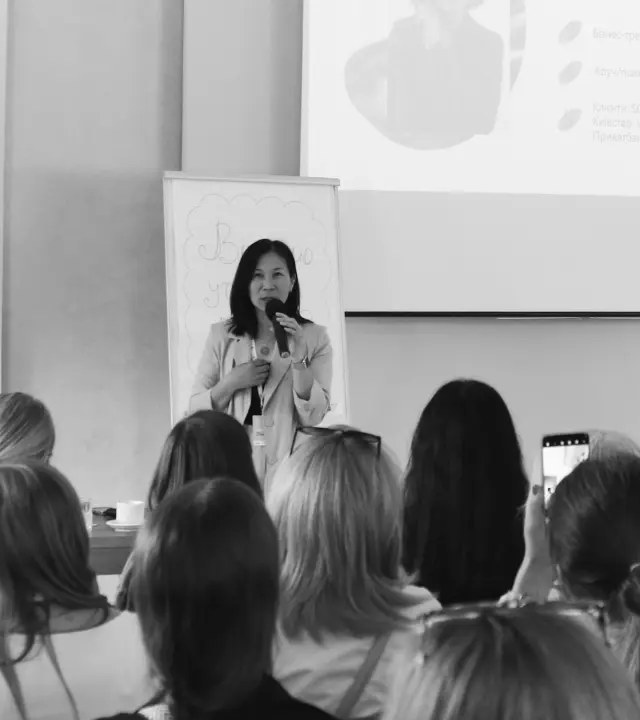
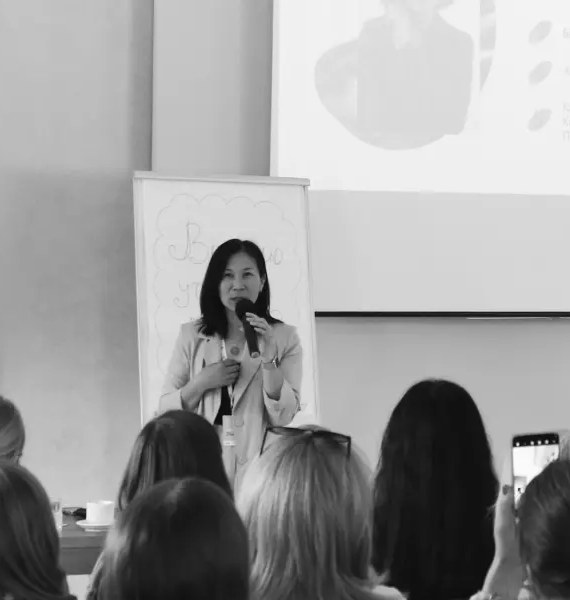
Презентація: аудит, раунд 3 — фото без повторів, пес NovaPay цілком, векторний QR, типографічні заміни (нерозривні дефіси, прийменники), кроки-розділи легші, репліки в одному стилі

diff --git a/components/deck/DeckPages.tsx b/components/deck/DeckPages.tsx
@@ -65,7 +65,7 @@ export const DECK_CSS = `
   #deck-a4 .t-gallery .lead{ font-size:calc(17pt * var(--k,1)); font-style:italic; color:var(--acc); }
 
   /* тіло сторінки */
-  #deck-a4 .pb{ display:flex; flex-direction:column; flex:1; min-height:0; padding-bottom:5mm; }
+  #deck-a4 .pb{ display:flex; flex-direction:column; flex:1; min-height:0; padding-bottom:7mm; }
   #deck-a4 .sheet[data-sparse] .pb{ justify-content:flex-start; padding-bottom:0; }
   #deck-a4 .t-cover .pb, #deck-a4 .t-section .pb, #deck-a4 .t-closing .pb{ display:contents; }
 
@@ -96,21 +96,23 @@ export const DECK_CSS = `
   #deck-a4 .cols[data-n="3"]{ grid-template-columns:repeat(3,1fr); }
   #deck-a4 .cols[data-n="4"]{ grid-template-columns:repeat(4,1fr); column-gap:5mm; }
   #deck-a4 .cols[data-n="4"] .col{ padding:4mm 4.5mm 4.5mm; }
+  #deck-a4 .cols[data-n="4"] .col h3{ min-height:3.9em; }
   #deck-a4 .col h3{ font-family:var(--font-spectral),serif; font-style:italic; font-weight:500; font-size:calc(13.5pt * var(--k,1)); color:var(--acc); line-height:1.25; padding-bottom:2mm; border-bottom:1px solid var(--line); }
 
   /* steps */
   #deck-a4 .steps{ margin-top:5mm; display:flex; flex-direction:column; max-width:240mm; }
   #deck-a4 .step{ display:grid; grid-template-columns:60mm 1fr; gap:6mm; padding:calc(3.2mm * var(--k,1)) 0; border-top:1px solid var(--line); align-items:baseline; }
   #deck-a4 .step:first-child{ border-top:0; }
-  #deck-a4 .step .h{ font-family:var(--font-spectral),serif; font-style:italic; font-size:calc(13.5pt * var(--k,1)); color:var(--acc); line-height:1.3; }
-  #deck-a4 .step .t{ font-size:calc(12.2pt * var(--k,1)); line-height:1.5; }
+  #deck-a4 .step .h{ font-family:var(--font-spectral),serif; font-style:italic; font-size:calc(13.5pt * min(var(--k,1), 1.18)); color:var(--acc); line-height:1.3; }
+  #deck-a4 .step .t{ font-size:calc(12.2pt * min(var(--k,1), 1.18)); line-height:1.5; }
 
   /* table */
   #deck-a4 table{ width:100%; border-collapse:collapse; margin-top:6mm; font-size:calc(10.5pt * var(--k,1)); line-height:1.42; }
-  #deck-a4 th{ text-align:left; font-family:var(--font-jetbrains),monospace; font-size:7.8pt; letter-spacing:.12em; text-transform:uppercase; color:var(--faint); padding:0 3mm 2.4mm 0; border-bottom:1px solid var(--ink); font-weight:500; }
+  #deck-a4 th{ text-align:left; font-family:var(--font-jetbrains),monospace; font-size:7.8pt; letter-spacing:.12em; text-transform:uppercase; color:var(--faint); padding:0 6mm 2.4mm 0; border-bottom:1px solid var(--ink); font-weight:500; }
   #deck-a4 td{ vertical-align:top; padding:calc(2.8mm * var(--k,1)) 3mm calc(2.8mm * var(--k,1)) 0; border-bottom:1px solid var(--line); }
   #deck-a4 td:first-child{ color:var(--acc); font-family:var(--font-spectral),serif; font-style:italic; font-size:calc(11pt * var(--k,1)); width:17%; }
   #deck-a4 table[data-num] td:first-child{ width:6%; white-space:nowrap; }
+  #deck-a4 table[data-cols="4"]:not(.ws) td:nth-child(2){ width:34%; } #deck-a4 table[data-cols="4"]:not(.ws) td:nth-child(3){ width:22%; }
   #deck-a4 table[data-num] td:nth-child(3){ width:24%; }
   #deck-a4 td[contenteditable]:empty{ min-height:6mm; display:block; }
 
@@ -192,6 +194,8 @@ export const DECK_CSS = `
   #deck-a4 .t-section.has-img .rh, #deck-a4 .t-section.has-img .foot{ margin-right:112mm; }
   #deck-a4 .t-section.has-img .secwrap{ padding-right:112mm; position:relative; z-index:1; }
   #deck-a4 .t-section.has-img .num{ font-size:120pt; }
+  #deck-a4 .t-section.is-step .num{ font-size:88pt; }
+  #deck-a4 .t-section.is-step h1{ font-size:26pt; }
   #deck-a4 .t-section.has-img h1{ font-size:28pt; }
   #deck-a4 .t-section.has-img .secwrap{ column-gap:10mm; }
   #deck-a4 .t-section.fit-top .secimg{ right:0; left:0; bottom:auto; width:auto; height:94mm; }
@@ -220,7 +224,7 @@ export const DECK_CSS = `
   #deck-a4 .bubbles{ display:flex; flex-direction:column; gap:calc(3mm * var(--k,1)); margin-top:6mm; max-width:215mm; }
   #deck-a4 .bubble{ position:relative; align-self:flex-start; background:var(--band); border-radius:12px 12px 12px 3px; padding:3.2mm 6mm 3.2mm 9mm; font-family:var(--font-spectral),serif; font-style:italic; font-size:calc(12.5pt * var(--k,1)); line-height:1.4; max-width:190mm; }
   #deck-a4 .bubble::before{ content:"“"; position:absolute; left:3mm; top:1.2mm; font-family:var(--font-playfair),serif; font-size:calc(20pt * var(--k,1)); line-height:1; color:var(--amber); font-style:normal; }
-  #deck-a4 .bubble:nth-child(even){ margin-left:8mm; background:#fff; border:1px solid var(--line); }
+  #deck-a4 .bubble:nth-child(even){ margin-left:0; }
 
   /* ── колонки як картки ── */
   #deck-a4 .col{ background:var(--band); border-radius:5px; padding:5mm 6mm 5.5mm; border-top:2.5pt solid var(--amber); }
@@ -248,7 +252,7 @@ export const DECK_CSS = `
   #deck-a4 .gal[data-chip="yellow"] img{ border-top:5pt solid #F2C230; }
   #deck-a4 .gal[data-chip="blue"] img{ border-top:5pt solid #2F62C7; }
   #deck-a4 .gal img{ height:108mm; box-shadow:0 10px 26px rgba(60,40,15,.14); object-position:center 25%; }
-  #deck-a4 .gal figure:has(figcaption:not(:empty)) img{ object-fit:contain; background:var(--band); height:100mm; }
+  #deck-a4 .gal figure:has(figcaption:not(:empty)) img{ object-fit:cover; object-position:center; height:100mm; }
 
   /* ── таблиці: зебра ── */
   #deck-a4 tbody tr:nth-child(even) td{ background:rgba(244,236,220,.55); }
@@ -265,7 +269,7 @@ export const DECK_CSS = `
   #deck-a4 .notes .lines{ flex:1; min-height:0; background:linear-gradient(to top,var(--line) .25mm,transparent .25mm) left bottom / 100% 8.6mm repeat-y; margin-top:2mm; }
   #deck-a4 table.ws td{ height:calc(var(--rowh,18mm) * var(--k,1)); vertical-align:top; padding-top:3mm; }
   #deck-a4 table.ws td:empty{ background-image:linear-gradient(to top,var(--line) .25mm,transparent .25mm); background-size:100% 8.6mm; background-position:left bottom; background-repeat:repeat-y; background-origin:content-box; background-clip:content-box; }
-  #deck-a4 table.ws.c3 th:first-child{ width:34%; } #deck-a4 table.ws.c3 th:nth-child(2){ width:24%; } #deck-a4 table.ws.c3 th:last-child{ width:42%; }
+  #deck-a4 table.ws.c3 th:first-child{ width:40%; } #deck-a4 table.ws.c3 th:nth-child(2){ width:18%; } #deck-a4 table.ws.c3 th:last-child{ width:42%; }
   #deck-a4 table.ws.c3[data-num] th:first-child{ width:6%; } #deck-a4 table.ws.c3[data-num] th:nth-child(2){ width:52%; }
   #deck-a4 table.ws.c4 th:nth-child(2), #deck-a4 table.ws.c4 th:nth-child(3){ width:35%; } #deck-a4 table.ws.c4 th:last-child{ width:20%; }
   #deck-a4 table.ws td:first-child{ width:auto; }
@@ -282,7 +286,7 @@ export const DECK_CSS = `
   #deck-a4 .t-closing .wrap > img{ position:absolute; top:0; right:0; bottom:0; width:118mm; height:100%; object-fit:cover; object-position:center 15%; border:0; padding:0; background:none; }
   #deck-a4 .t-closing .rh, #deck-a4 .t-closing .foot{ margin-right:112mm; }
   #deck-a4 .t-closing h1{ font-size:40pt; }
-  #deck-a4 .t-closing .qr{ mix-blend-mode:multiply; width:38mm; height:38mm; margin-top:8mm; }
+  #deck-a4 .t-closing .qr{ width:34mm; height:34mm; margin-top:9mm; }
   #deck-a4 table.ws tbody tr:nth-child(even) td{ background-color:transparent; }
 
   #deck-a4 .fullimg{ flex:1; min-height:0; display:flex; align-items:center; margin-top:8mm; }
@@ -301,6 +305,14 @@ export const DECK_CSS = `
 `;
 
 type Patch = (patch: Record<string, unknown>) => void;
+
+/** Типографічні заміни лише для показу (у дані повертаються звичайні пробіли/дефіси): «5‑й крок», прийменники не висять. */
+function typo(v: string): string {
+  return v
+    .replace(/(\d)-(й|го|му|ша|ші|ім|ий|ої|ому)(?!\p{L})/gu, "$1\u2011$2")
+    .replace(/(\d\u2011й)\s+(крок)/gu, "$1\u00A0$2")
+    .replace(/(^|[\s(«])([\p{L}]{1,2})\s+(?=\S)/gu, "$1$2\u00A0");
+}
 
 /* ───────── editable primitives ───────── */
 
@@ -333,7 +345,7 @@ function E({
         if (v !== value) onChange(v);
       }}
     >
-      {value.replace(/(\d)-(й|го|му|ша|ші|ім|ий|ої|ому)(?!\p{L})/gu, "$1\u2011$2")}
+      {typo(value)}
     </T>
   );
 }
@@ -363,7 +375,7 @@ function EList({
       }}
     >
       {items.map((it, i) => (
-        <li key={i}>{it}</li>
+        <li key={i}>{typo(it)}</li>
       ))}
     </ul>
   );
@@ -432,11 +444,11 @@ function Sheet({ deck, i, cls, page, children, editable, onRunhead }: { deck: De
       const fits = () => !(el.scrollHeight > el.clientHeight + 2 || (pb ? pb.scrollHeight > pb.clientHeight + 2 : false));
       let v = d.k;
       const floor = page.type === "table" ? 0.7 : 0.62;
-      const apply = () => { el.style.setProperty("--k", String(v)); el.style.setProperty("--kh", String(Math.min(1.2, v))); };
+      const apply = () => { el.style.setProperty("--k", String(v)); el.style.setProperty("--kh", String(v >= 1.1 ? 1.1 : v < 0.95 ? 0.9 : 1)); };
       apply();
       for (let i = 0; i < 24 && !fits() && v > floor; i++) { v = Math.round((v - 0.04) * 100) / 100; apply(); }
       // поле «Нотатки» лишаємо тільки якщо на нього є хоча б 18 мм
-      if (notes && notes.getBoundingClientRect().height < 68) { notes.style.display = "none"; }
+      if (notes && notes.getBoundingClientRect().height < 98) { notes.style.display = "none"; }
       setK(v);
     };
     fit();
@@ -447,7 +459,7 @@ function Sheet({ deck, i, cls, page, children, editable, onRunhead }: { deck: De
     return () => window.clearTimeout(t);
   }, [d.k, page]);
   return (
-    <section ref={ref} className={`sheet ${cls ?? ""}${page.type === "section" && page.image ? " has-img" + (page.fit === "top" ? " fit-top" : "") : ""}`} data-page={i + 1} data-sparse={k >= 1.32 ? "1" : undefined} style={{ ["--k" as any]: k, ["--kh" as any]: Math.min(1.2, k) }}>
+    <section ref={ref} className={`sheet ${cls ?? ""}${page.type === "section" && page.image ? " has-img" + (page.fit === "top" ? " fit-top" : "") : ""}${page.type === "section" && /^\d+-й крок/i.test(page.title) ? " is-step" : ""}`} data-page={i + 1} data-sparse={k >= 1.32 ? "1" : undefined} style={{ ["--k" as any]: k, ["--kh" as any]: Math.min(1.2, k) }}>
       <div className="rh">
         <span className="wm">Pan<em>&amp;</em>Partners</span>
         <span className="fill" />
@@ -702,7 +714,7 @@ function PageBody({ p, set, editable, prev }: { p: DeckPage; set: Patch; editabl
         <>
           <Title p={p} set={set} editable={e} />
           <E tag="p" className="lead" value={p.lead} onChange={(v) => set({ lead: v })} editable={e} ph="лід" />
-          <table className={ws ? `ws c${p.head.length}` : undefined} data-hl={hl ?? undefined} data-num={numbered ? "1" : undefined} style={rowh ? ({ ["--rowh" as any]: rowh } as any) : undefined}>
+          <table className={ws ? `ws c${p.head.length}` : undefined} data-hl={hl ?? undefined} data-num={numbered ? "1" : undefined} data-cols={String(p.head.length)} style={rowh ? ({ ["--rowh" as any]: rowh } as any) : undefined}>
             <thead>
               <tr>
                 {p.head.map((h, k) => (

diff --git a/lib/decks/novapay.ts b/lib/decks/novapay.ts
@@ -15,7 +15,7 @@ export const NOVAPAY_DECK: Deck = {
     // 1
     { id: "s01", type: "cover", eyebrow: "Sell NovaPay", title: "Продажі в B2B —", titleEm: "від 1-го дзвінка до закриття угоди", sub: "", who: "Бізнес-тренерка Тетяна Пан", when: "Україна, 2026" },
     // 2
-    { id: "s02", type: "closing", title: "Наші", titleEm: "контакти", sub: "", contacts: ["+38 067 007 0710", "+38 050 448 1411", "+38 066 730 6237"], image: I + "tania-laptop-2.jpg" },
+    { id: "s02", type: "closing", title: "Наші", titleEm: "контакти", sub: "", contacts: ["+38 067 007 0710", "+38 050 448 1411", "+38 066 730 6237"], image: I + "tania-mic-2.jpg" },
     // 3
     { id: "s03", type: "about", title: "Тетяна", titleEm: "Пан",
       role: "Бізнес-тренерка, фасилітаторка, коуч, менторка, експертка з навчання та розвитку команд і керівників, засновниця компанії «Pan&Partners»",
@@ -246,6 +246,6 @@ export const NOVAPAY_DECK: Deck = {
     // 60
     { id: "s60", type: "table", title: "Action", titleEm: "plan", lead: "Що потрібно зробити після нашої зустрічі — перші 3 кроки?", head: ["#", "Захід / дія", "Як зрозумію, що досяг — індикатори досягнення", "Терміни / період-ть"], rows: [["1.", "", "", ""], ["2.", "", "", ""], ["3.", "", "", ""]], callout: "" },
     // 61
-    { id: "s61", type: "closing", title: "Дякую", titleEm: "за активність", sub: "Підписуйтесь на мій Інстаграм: @tetiana_pan.sales", contacts: ["+38 067 007 0710", "+38 050 448 1411", "+38 066 730 6237"], image: I + "tania.jpg", qr: I + "instagram.jpg" },
+    { id: "s61", type: "closing", title: "Дякую", titleEm: "за активність", sub: "Підписуйтесь на мій Інстаграм: @tetiana_pan.sales", contacts: ["+38 067 007 0710", "+38 050 448 1411", "+38 066 730 6237"], image: I + "tania-laptop-bw.jpg", qr: I + "qr-instagram.svg" },
   ],
 };

diff --git a/lib/decks/sanitize.ts b/lib/decks/sanitize.ts
@@ -58,7 +58,7 @@ function upgradePage(saved: DeckPage, def: DeckPage | undefined): DeckPage {
     const ours = !saved.image || /\/deck\/novapay\/(np-|tania|hand\.png)/.test(saved.image);
     if (ours) { out.image = def.image; out.fit = def.fit; out.panel = def.panel; }
   }
-  if (def.type === "closing" && saved.type === "closing" && (!saved.image || /\/deck\/novapay\/tania/.test(saved.image))) out.image = def.image;
+  if (def.type === "closing" && saved.type === "closing") { if (!saved.image || /\/deck\/novapay\/tania/.test(saved.image)) out.image = def.image; if (def.qr && (!saved.qr || /instagram\.jpg$/.test(saved.qr))) out.qr = def.qr; }
   if ("image" in out && typeof out.image === "string" && RETIRED.test(out.image)) { if ("image" in def && (def as any).image) out.image = (def as any).image; else delete out.image; }
   return out as DeckPage;
 }
